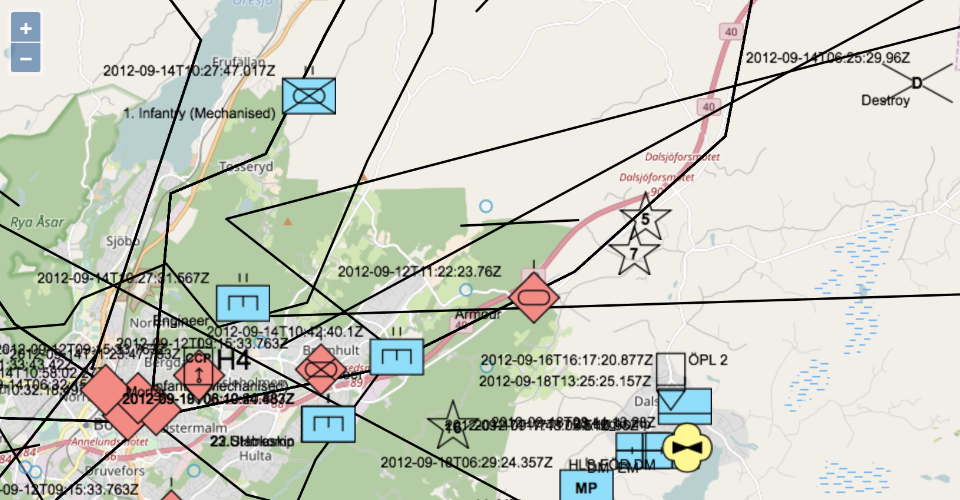
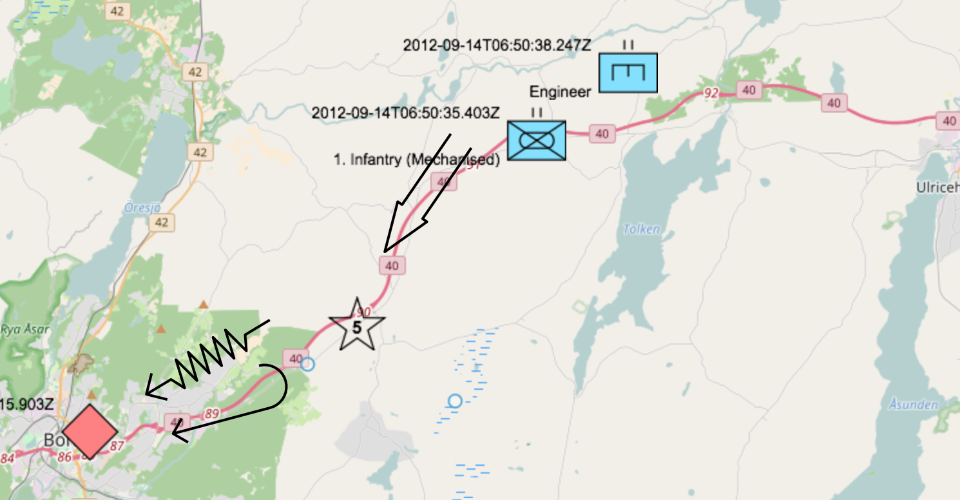
Add DELAY arrow

diff --git a/dist/milgraphics.js b/dist/milgraphics.js
@@ -73,7 +73,7 @@ return /******/ (function(modules) { // webpackBootstrap
 /******/ 	__webpack_require__.p = "";
 
 /******/ 	// Load entry module and return exports
-/******/ 	return __webpack_require__(__webpack_require__.s = 23);
+/******/ 	return __webpack_require__(__webpack_require__.s = 24);
 /******/ })
 /************************************************************************/
 /******/ ([
@@ -147,9 +147,10 @@ var geometryConverter = {};
 geometryConverter.block = __webpack_require__(16);
 geometryConverter.circle = __webpack_require__(17);
 geometryConverter.corridor = __webpack_require__(18);
-geometryConverter.fix = __webpack_require__(19);
-geometryConverter.mainAttack = __webpack_require__(20);
-geometryConverter.supportingAttack = __webpack_require__(21);
+geometryConverter.delay = __webpack_require__(19);
+geometryConverter.fix = __webpack_require__(20);
+geometryConverter.mainAttack = __webpack_require__(21);
+geometryConverter.supportingAttack = __webpack_require__(22);
 
 module.exports = geometryConverter;
 
@@ -181,10 +182,10 @@ var Graphic = function (feature){
 	  var graphics = ms._graphicCache['letter-' + this.properties.numberSIDC];
 	  var genericSIDC = this.SIDC.substr(0,1)+'-'+this.SIDC.substr(2,1)+'-'+this.SIDC.substr(4,6);
     if(graphics[genericSIDC]){
-      console.log('Converting: ' + this.SIDC)
       this.geometry = graphics[genericSIDC].call(this, feature);
     }else{
       //TODO check if we need to clone here;
+      console.log('Failed to convert: ' + this.SIDC);
       this.geometry = feature.geometry;
     }
 	}else{
@@ -216,7 +217,7 @@ function GraphicsLayer (data) {
     }
     if (feature.geometry.type == 'MultiPoint') {
     //console.log('multipoint')
-    console.log(feature.properties.SIDC)
+    //console.log(feature.properties.SIDC)
       feature.graphic = new ms.Graphic(feature);
       //console.log('woo we got something special')
       feature.geometry = feature.graphic.geometry;
@@ -229,7 +230,7 @@ function GraphicsLayer (data) {
   }
 };
 
-GraphicsLayer.prototype.asOpenLayers = __webpack_require__(22);
+GraphicsLayer.prototype.asOpenLayers = __webpack_require__(23);
 
 module.exports = GraphicsLayer;
 
@@ -257,6 +258,7 @@ module.exports = function tacticalPoints(sidc,std2525){
 	// Tactical Point Symbols =========================================================================
 	sidc['G-T-B-----'] = ms.geometryConverter.block; //TACGRP.FSUPP.ARS.C2ARS.FFA.CIRCLR
 	sidc['G-T-F-----'] = ms.geometryConverter.fix; //TACGRP.FSUPP.ARS.C2ARS.FFA.CIRCLR
+	sidc['G-T-L-----'] = ms.geometryConverter.delay; //
 
 	sidc['G-F-ACFC--'] = ms.geometryConverter.circle; //TACGRP.FSUPP.ARS.C2ARS.FFA.CIRCLR
 	sidc['G-G-OLAGM-'] = ms.geometryConverter.mainAttack; //TACGRP.C2GM.OFF.LNE.AXSADV.GRD.MANATK
@@ -796,6 +798,49 @@ module.exports = corridor;
 /***/ (function(module, exports) {
 
 // 
+function delay(feature){
+  var direction, width;
+  var points = feature.geometry.coordinates;
+  
+  var width = ms.geometry.distanceBetween(points[1],points[2]);
+  var bearing = ms.geometry.bearingBetween(points[0],points[1]);
+  
+  var geometry = {"type": "MultiLineString"};
+
+  geometry.coordinates = [];
+  
+  var geometry1 = [];
+  geometry1.push(points[0]);
+  geometry1.push(points[1]);
+//console.log('arrow bearing ' + bearing)
+//console.log('fjomp bearing ' + ms.geometry.bearingBetween(points[1],points[2]))
+  
+  var midpoint = ms.geometry.pointBetween(points[1],points[2],0.5);
+  var curveBearing = ms.geometry.bearingBetween(points[1],points[2]);
+  var directionFactor = (Math.abs(curveBearing)/curveBearing)*(Math.abs(bearing)/bearing);
+
+  for (var i = 10; i<180; i+=10){
+      geometry1.push(ms.geometry.toDistanceBearing(midpoint,width/2,curveBearing+(i*directionFactor)+180));
+  }
+
+  geometry1.push(points[2]);
+    
+  var geometry2 = [];
+  geometry2.push(ms.geometry.toDistanceBearing(points[0],width*0.4,bearing+45));
+  geometry2.push(points[0]);
+  geometry2.push(ms.geometry.toDistanceBearing(points[0],width*0.4,bearing-45));
+  
+  geometry.coordinates = [geometry1,geometry2];
+  return geometry
+}
+
+module.exports = delay;
+
+/***/ }),
+/* 20 */
+/***/ (function(module, exports) {
+
+// 
 function fix(feature){
   var direction, width;
   var points = feature.geometry.coordinates;
@@ -842,7 +887,7 @@ function fix(feature){
 module.exports = fix;
 
 /***/ }),
-/* 20 */
+/* 21 */
 /***/ (function(module, exports) {
 
 // Draws a corridor with a widht in meters
@@ -907,7 +952,7 @@ function mainAttack(feature){
 module.exports = mainAttack;
 
 /***/ }),
-/* 21 */
+/* 22 */
 /***/ (function(module, exports) {
 
 // Draws a corridor with a widht in meters
@@ -966,7 +1011,7 @@ function supportingAttack(feature){
 module.exports = supportingAttack;
 
 /***/ }),
-/* 22 */
+/* 23 */
 /***/ (function(module, exports) {
 
 
@@ -1029,7 +1074,7 @@ module.exports = asOpenLayers;
 
 
 /***/ }),
-/* 23 */
+/* 24 */
 /***/ (function(module, exports, __webpack_require__) {
 
 /* ***************************************************************************************

diff --git a/src/geometryconverter/delay.js b/src/geometryconverter/delay.js
@@ -1,0 +1,38 @@
+// 
+function delay(feature){
+  var direction, width;
+  var points = feature.geometry.coordinates;
+  
+  var width = ms.geometry.distanceBetween(points[1],points[2]);
+  var bearing = ms.geometry.bearingBetween(points[0],points[1]);
+  
+  var geometry = {"type": "MultiLineString"};
+
+  geometry.coordinates = [];
+  
+  var geometry1 = [];
+  geometry1.push(points[0]);
+  geometry1.push(points[1]);
+//console.log('arrow bearing ' + bearing)
+//console.log('fjomp bearing ' + ms.geometry.bearingBetween(points[1],points[2]))
+  
+  var midpoint = ms.geometry.pointBetween(points[1],points[2],0.5);
+  var curveBearing = ms.geometry.bearingBetween(points[1],points[2]);
+  var directionFactor = (Math.abs(curveBearing)/curveBearing)*(Math.abs(bearing)/bearing);
+
+  for (var i = 10; i<180; i+=10){
+      geometry1.push(ms.geometry.toDistanceBearing(midpoint,width/2,curveBearing+(i*directionFactor)+180));
+  }
+
+  geometry1.push(points[2]);
+    
+  var geometry2 = [];
+  geometry2.push(ms.geometry.toDistanceBearing(points[0],width*0.4,bearing+45));
+  geometry2.push(points[0]);
+  geometry2.push(ms.geometry.toDistanceBearing(points[0],width*0.4,bearing-45));
+  
+  geometry.coordinates = [geometry1,geometry2];
+  return geometry
+}
+
+module.exports = delay;

diff --git a/src/letter-sidc/tactical-2525.js b/src/letter-sidc/tactical-2525.js
@@ -3,6 +3,7 @@ module.exports = function tacticalPoints(sidc,std2525){
 	// Tactical Point Symbols =========================================================================
 	sidc['G-T-B-----'] = ms.geometryConverter.block; //TACGRP.FSUPP.ARS.C2ARS.FFA.CIRCLR
 	sidc['G-T-F-----'] = ms.geometryConverter.fix; //TACGRP.FSUPP.ARS.C2ARS.FFA.CIRCLR
+	sidc['G-T-L-----'] = ms.geometryConverter.delay; //
 
 	sidc['G-F-ACFC--'] = ms.geometryConverter.circle; //TACGRP.FSUPP.ARS.C2ARS.FFA.CIRCLR
 	sidc['G-G-OLAGM-'] = ms.geometryConverter.mainAttack; //TACGRP.C2GM.OFF.LNE.AXSADV.GRD.MANATK

diff --git a/src/geometryconverter.js b/src/geometryconverter.js
@@ -3,6 +3,7 @@ var geometryConverter = {};
 geometryConverter.block = require('./geometryconverter/block.js');
 geometryConverter.circle = require('./geometryconverter/circle.js');
 geometryConverter.corridor = require('./geometryconverter/corridor.js');
+geometryConverter.delay = require('./geometryconverter/delay.js');
 geometryConverter.fix = require('./geometryconverter/fix.js');
 geometryConverter.mainAttack = require('./geometryconverter/mainattack.js');
 geometryConverter.supportingAttack = require('./geometryconverter/supportingattack.js');

diff --git a/src/graphic.js b/src/graphic.js
@@ -22,10 +22,10 @@ var Graphic = function (feature){
 	  var graphics = ms._graphicCache['letter-' + this.properties.numberSIDC];
 	  var genericSIDC = this.SIDC.substr(0,1)+'-'+this.SIDC.substr(2,1)+'-'+this.SIDC.substr(4,6);
     if(graphics[genericSIDC]){
-      console.log('Converting: ' + this.SIDC)
       this.geometry = graphics[genericSIDC].call(this, feature);
     }else{
       //TODO check if we need to clone here;
+      console.log('Failed to convert: ' + this.SIDC);
       this.geometry = feature.geometry;
     }
 	}else{

diff --git a/src/graphicslayer.js b/src/graphicslayer.js
@@ -15,7 +15,7 @@ function GraphicsLayer (data) {
     }
     if (feature.geometry.type == 'MultiPoint') {
     //console.log('multipoint')
-    console.log(feature.properties.SIDC)
+    //console.log(feature.properties.SIDC)
       feature.graphic = new ms.Graphic(feature);
       //console.log('woo we got something special')
       feature.geometry = feature.graphic.geometry;
